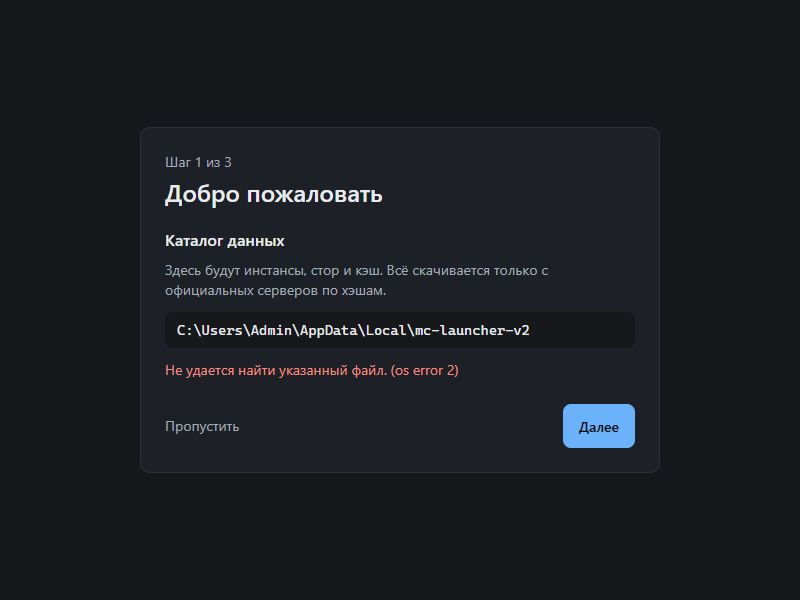
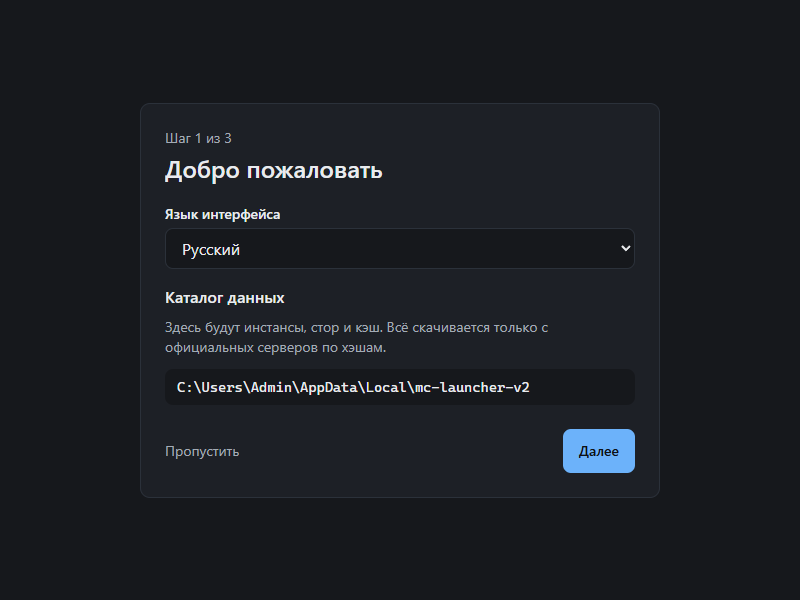
Feature: Ukrainian language, English as default, trilingual error texts
- src/i18n/uk.json: full 226-key Ukrainian translation, key parity with ru/en
- Settings::default language en (fresh installs); existing settings keep theirs
- language pickers: Settings -> General + onboarding step 1 (native names)
- errors.json -> {code: {ru,en,uk}}, errorText picks by current language
- README languages line; DECISIONS D30
- verified live: en/uk/ru switch instantly, survives window reload;
  cargo test 102+10, clippy clean, ui_checks/e2e green

diff --git a/src/i18n/index.ts b/src/i18n/index.ts
@@ -1,20 +1,24 @@
 // Мини-i18n без зависимостей: t("key") + {placeholders}. Спека §8.
+// Языки: en (по умолчанию), ru, uk. Fallback-цепочка: current → en → ключ.
 import ru from "./ru.json";
 import en from "./en.json";
+import uk from "./uk.json";
 import errors from "./errors.json";
 import type { ErrorPayload } from "../api/types";
 
 type Dict = Record<string, string>;
+type ErrorEntry = Record<"ru" | "en" | "uk", string>;
 
-const dicts: Record<string, Dict> = { ru: ru as Dict, en: en as Dict };
-let current = "ru";
+const dicts: Record<string, Dict> = { ru: ru as Dict, en: en as Dict, uk: uk as Dict };
+const errorDict = errors as unknown as Record<string, ErrorEntry>;
+let current = "en";
 
 export function setLanguage(lang: string) {
   if (dicts[lang]) current = lang;
 }
 
 export function t(key: string, params?: Record<string, string | number>): string {
-  let text = dicts[current][key] ?? dicts.ru[key] ?? key;
+  let text = dicts[current][key] ?? dicts.en[key] ?? key;
   if (params) {
     for (const [k, v] of Object.entries(params)) {
       text = text.replace(`{${k}}`, String(v));
@@ -23,10 +27,11 @@ export function t(key: string, params?: Record<string, string | number>): string
   return text;
 }
 
-/** Ошибка ядра → локализованный текст: код в errors.json, message — fallback. */
+/** Ошибка ядра → локализованный текст по текущему языку; message — fallback. */
 export function errorText(e: ErrorPayload): string {
-  const localized = (errors as Dict)[e.code];
-  const base = localized ? `${localized}` : e.message;
+  const entry = errorDict[e.code];
+  const localized = entry ? (entry[current as keyof ErrorEntry] ?? entry.en ?? entry.ru) : undefined;
+  const base = localized ?? e.message;
   return e.hint ? `${base}. ${e.hint}` : base;
 }
 

diff --git a/src/ui/pages/SettingsPage.tsx b/src/ui/pages/SettingsPage.tsx
@@ -188,6 +188,21 @@ export default function SettingsPage({ onOnboardingReset }: { onOnboardingReset:
           <Field label={t("settings.snapshots")}>
             <div className="flex items-center justify-between gap-4">
               <div>
+                <div className="text-sm font-medium">{t("settings.language")}</div>
+              </div>
+              <select
+                value={settings.language}
+                onChange={(e) => commit({ language: e.target.value })}
+                aria-label={t("settings.language")}
+                className="h-10 rounded-lg border border-border-strong bg-card px-3 text-sm"
+              >
+                <option value="en">English</option>
+                <option value="ru">Русский</option>
+                <option value="uk">Українська</option>
+              </select>
+            </div>
+            <div className="flex items-center justify-between gap-4">
+              <div>
                 <div className="text-sm font-medium">{t("settings.uiScale")}</div>
                 <div className="text-[13px] text-text-muted">{t("settings.uiScale.hint")}</div>
               </div>

diff --git a/src/ui/pages/Onboarding.tsx b/src/ui/pages/Onboarding.tsx
@@ -78,7 +78,20 @@ export default function Onboarding({ onDone }: { onDone: () => void }) {
 
         {step === 1 && (
           <div className="mt-5">
-            <h2 className="font-semibold">{t("onboarding.dir")}</h2>
+            <label className="block text-sm font-medium" htmlFor="ob-lang">
+              {t("onboarding.language")}
+            </label>
+            <select
+              id="ob-lang"
+              value={settings?.language ?? "en"}
+              onChange={(e) => void update({ language: e.target.value }).catch(() => undefined)}
+              className="mt-1 w-full rounded-md border border-border-app bg-bg px-3 py-2"
+            >
+              <option value="en">English</option>
+              <option value="ru">Русский</option>
+              <option value="uk">Українська</option>
+            </select>
+            <h2 className="mt-4 font-semibold">{t("onboarding.dir")}</h2>
             <p className="mt-2 text-sm text-text-muted">{t("onboarding.dir.hint")}</p>
             <code className="mt-3 block truncate rounded-md bg-bg px-3 py-2 text-sm">{dataDir}</code>
           </div>

diff --git a/src-tauri/src/settings.rs b/src-tauri/src/settings.rs
@@ -53,7 +53,7 @@ impl Default for Settings {
         Self {
             schema_version: SCHEMA_VERSION,
             theme: Theme::Dark,
-            language: "ru".into(),
+            language: "en".into(),
             download_parallelism: 16,
             default_ram_mb: 2048,
             default_jvm_flags: Vec::new(),

diff --git a/README.md b/README.md
@@ -47,7 +47,7 @@ Cobble — настольный лаунчер с нативным ядром н
 
 - Темы «Сланец», «Глубинный сланец», «Дальтоник» и другие — 5 палитр на выбор
 - Полная поддержка клавиатуры: Ctrl+K для поиска, Escape, фокус-навигация
-- Интерфейс на русском и английском
+- Интерфейс на английском (по умолчанию), русском и украинском — меняется в один клик
 
 <div align="center">
   <table>
